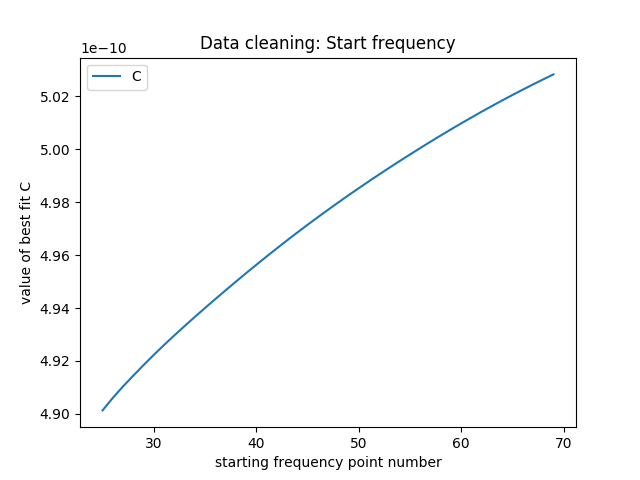
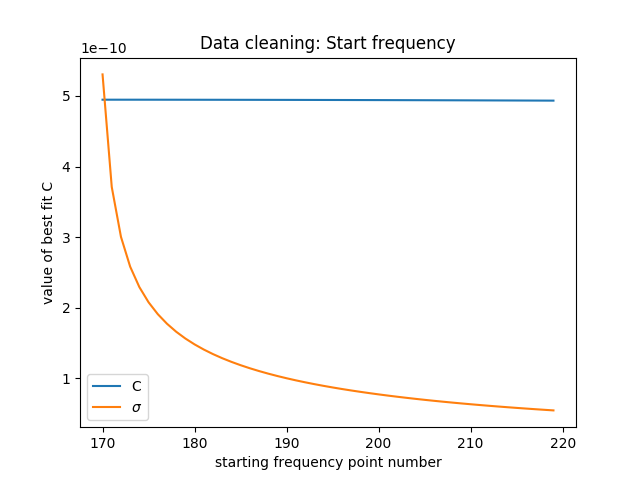
differentialte files

diff --git a/phys3310/clean500pF.py b/phys3310/clean500pF.py
@@ -6,7 +6,7 @@ from matplotlib import pyplot as plt
 
 _FILENAME = '500pF-bindingport.csv'
 _INPUT = []
-_MAX_LINE = 170
+_MAX_LINE = 200
 
 _F_COL=0
 _X_COL=6
@@ -47,43 +47,52 @@ def analyze(start, end):
     perr = np.sqrt(np.diag(pcov))
     return params, perr
 
-read_file()
+# read_file()
 
-x_data=extract_col(_INPUT, _F_COL)
-y_data=extract_col(_INPUT, _X_COL)
+# x_data=extract_col(_INPUT, _F_COL)
+# y_data=extract_col(_INPUT, _X_COL)
 
-params, pcov = optimize.curve_fit(test_func, 
-    x_data,
-    y_data,
-    p0=[500e-12, 90e-9])
-    #p0=None)
+# params, pcov = optimize.curve_fit(test_func, 
+#     x_data,
+#     y_data,
+#     p0=[500e-12, 90e-9])
+#     #p0=None)
 
-plt.figure(figsize=(6, 4))
-plt.ylabel(r'$|X_S|$')
-plt.xlabel('Frequency')
-plt.title('500pF capacitor fit')
-plt.scatter(x_data, y_data, label='Data')
-plt.plot(x_data, test_func(x_data, params[0], params[1]),
-         label='Fitted function', color='red')
+# plt.figure(figsize=(6, 4))
+# plt.scatter(x_data, y_data, label='Data')
+# plt.plot(x_data, test_func(x_data, params[0], params[1]),
+#          label='Fitted function')
+# plt.plot(x_data, test_func(x_data, params[0], params[1]),
+#          label='Fitted function')
 
-plt.legend(loc='best')
+# plt.legend(loc='best')
 
-plt.savefig('500pFfit.png')
-
-# c=[]
-# cerr=[]
-# x=[]
-# y=[]
-# for start in range(2,50):
-#     for end in range(170, 171):
-#         params, err=analyze(start, end)
-#         print(start)
-#         print(params[0])
-#         x+=[start]
-#         y+=[params[0]]
-
-# plt.plot(x,y)
 # plt.show()
-print(params)
-perr = np.sqrt(np.diag(pcov))
-print(perr)
+
+c=[]
+cerr=[]
+x=[]
+y=[]
+y2=[]
+for start in range(30,31):
+    for end in range(170, 220):
+        params, err=analyze(start, end)
+        print(start)
+        print(end)
+        print(params[0])
+        print(err[0])
+        x+=[end]
+        y+=[params[0]]
+        y2+=[err[1]]
+
+plt.plot(x,y,label="C")
+plt.plot(x,y2,label=r"$\sigma$")
+plt.ylabel('value of best fit C')
+plt.xlabel('starting frequency point number')
+plt.title('Data cleaning: Start frequency')
+plt.legend()
+# plt.show()
+plt.savefig('500pFstartFrequency.png')
+# print(params)
+# perr = np.sqrt(np.diag(pcov))
+# print(perr)
